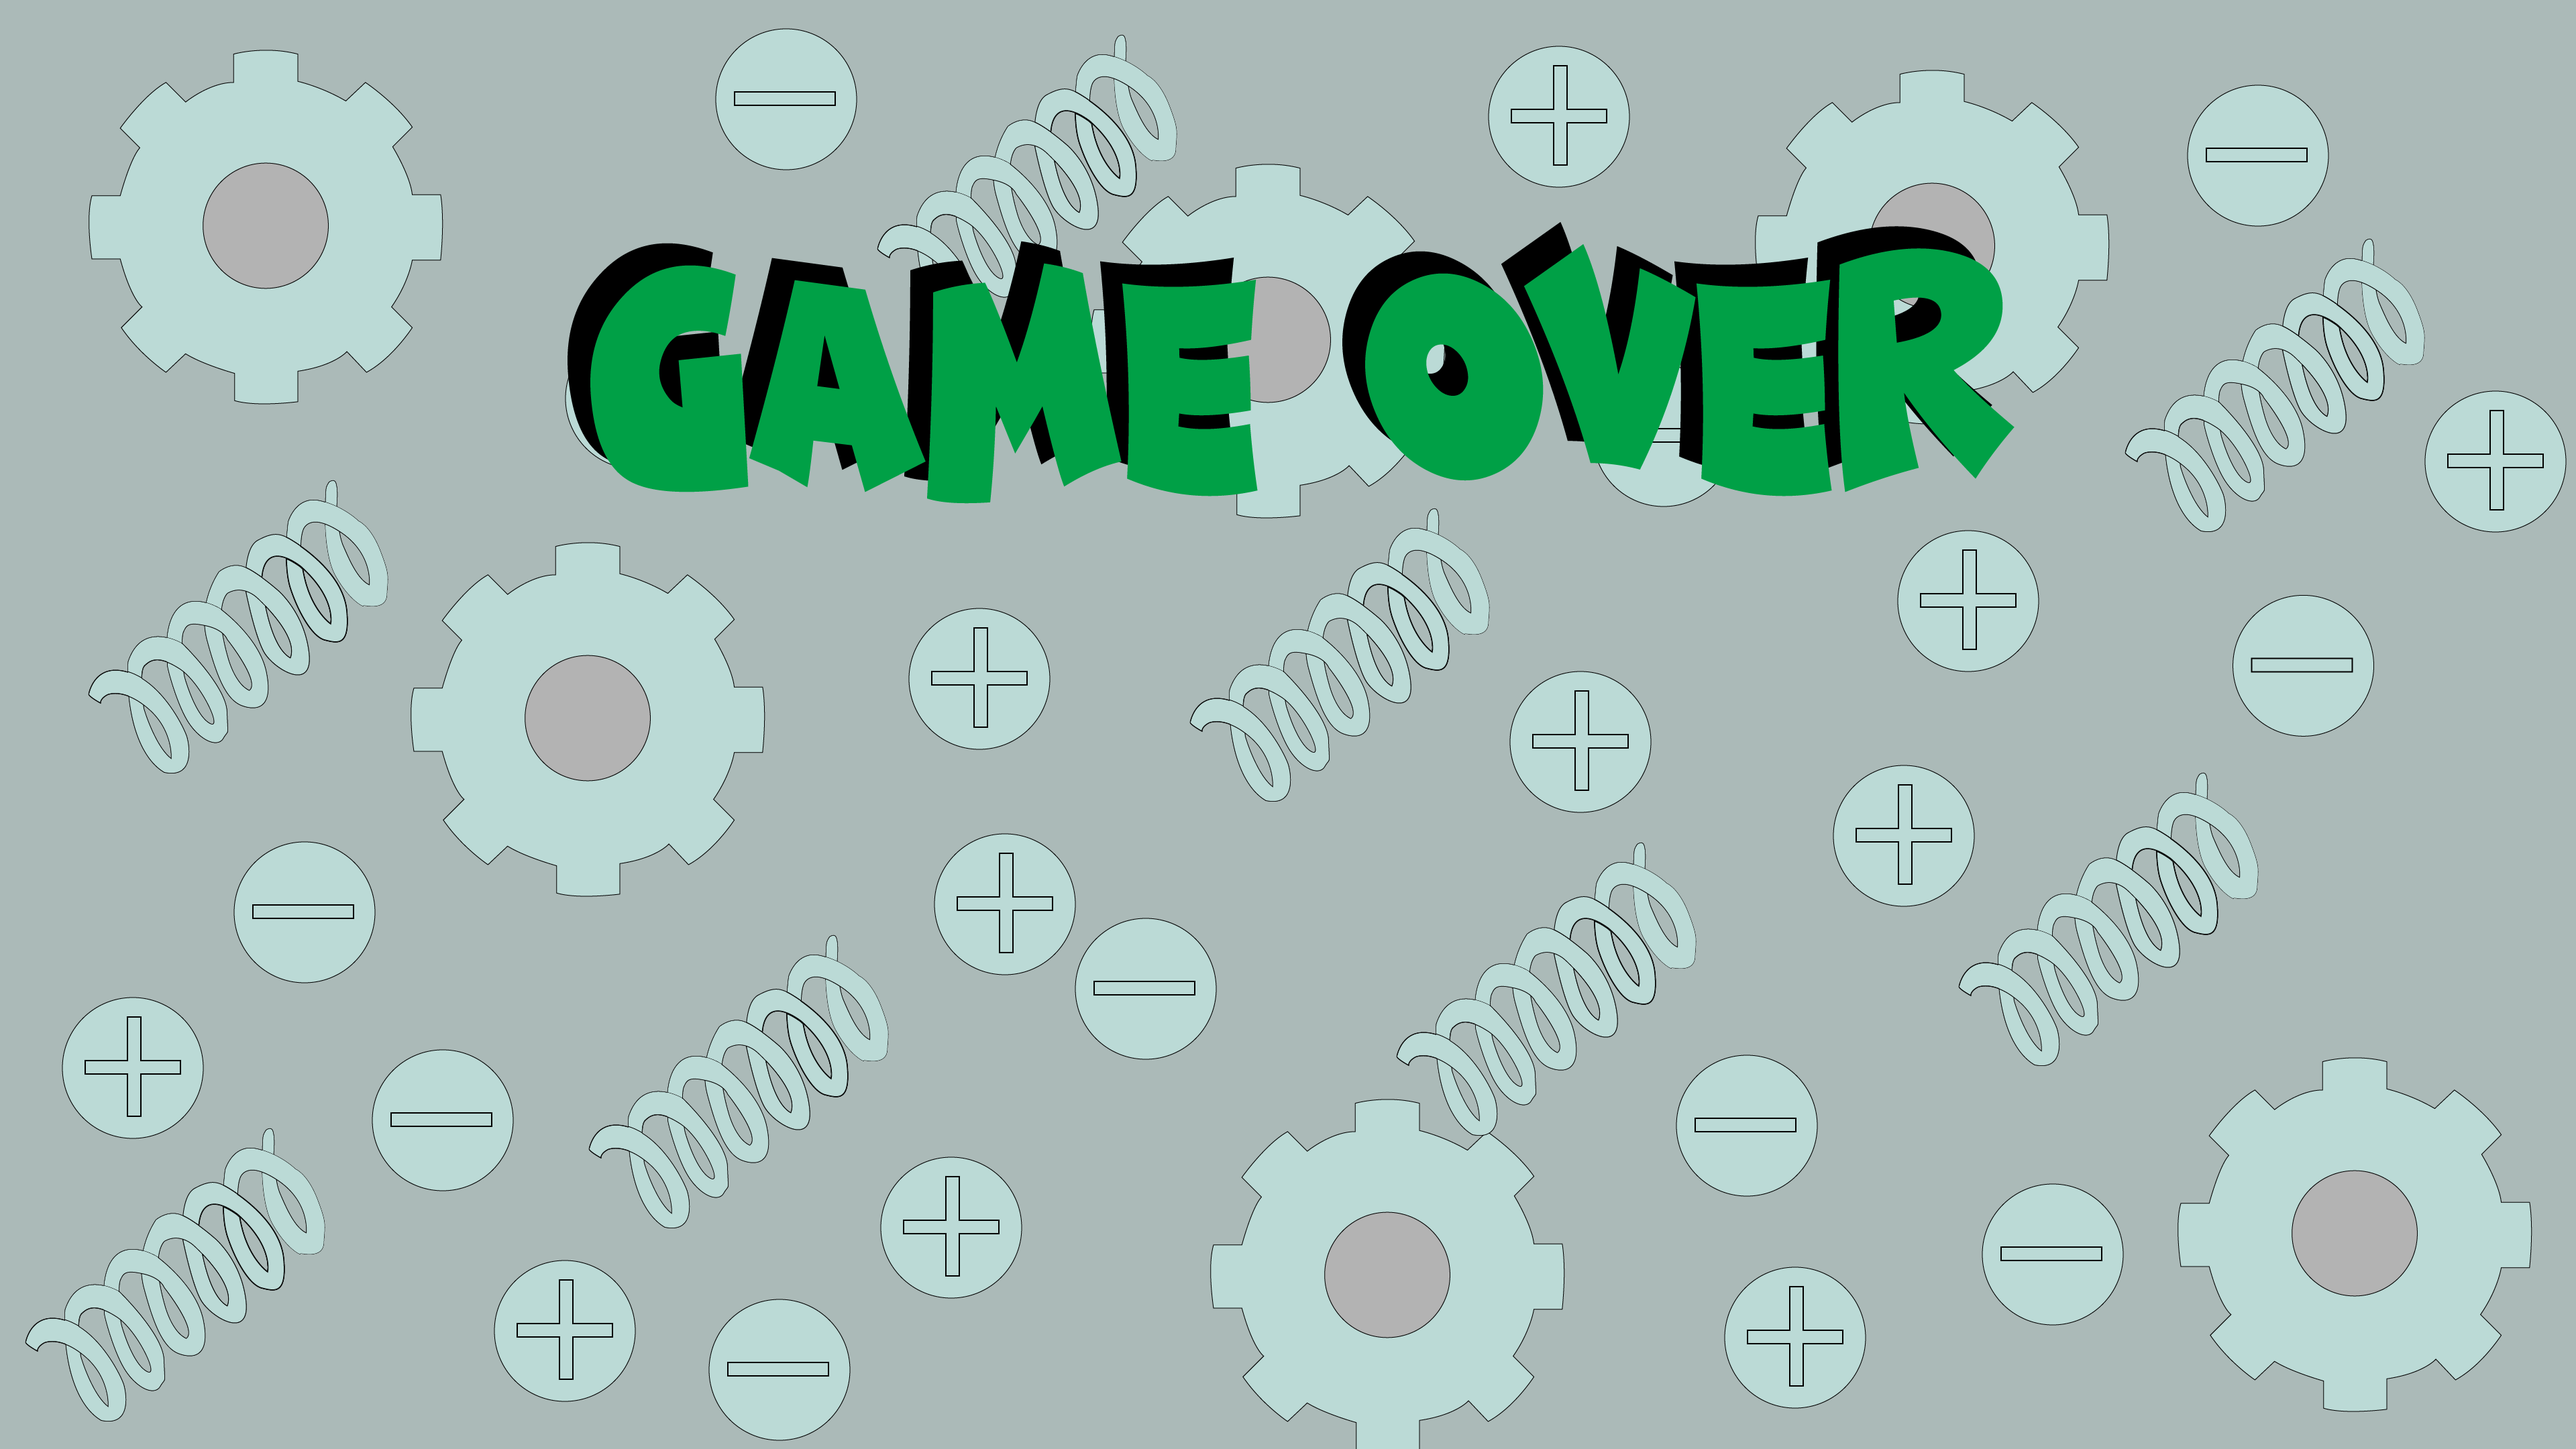
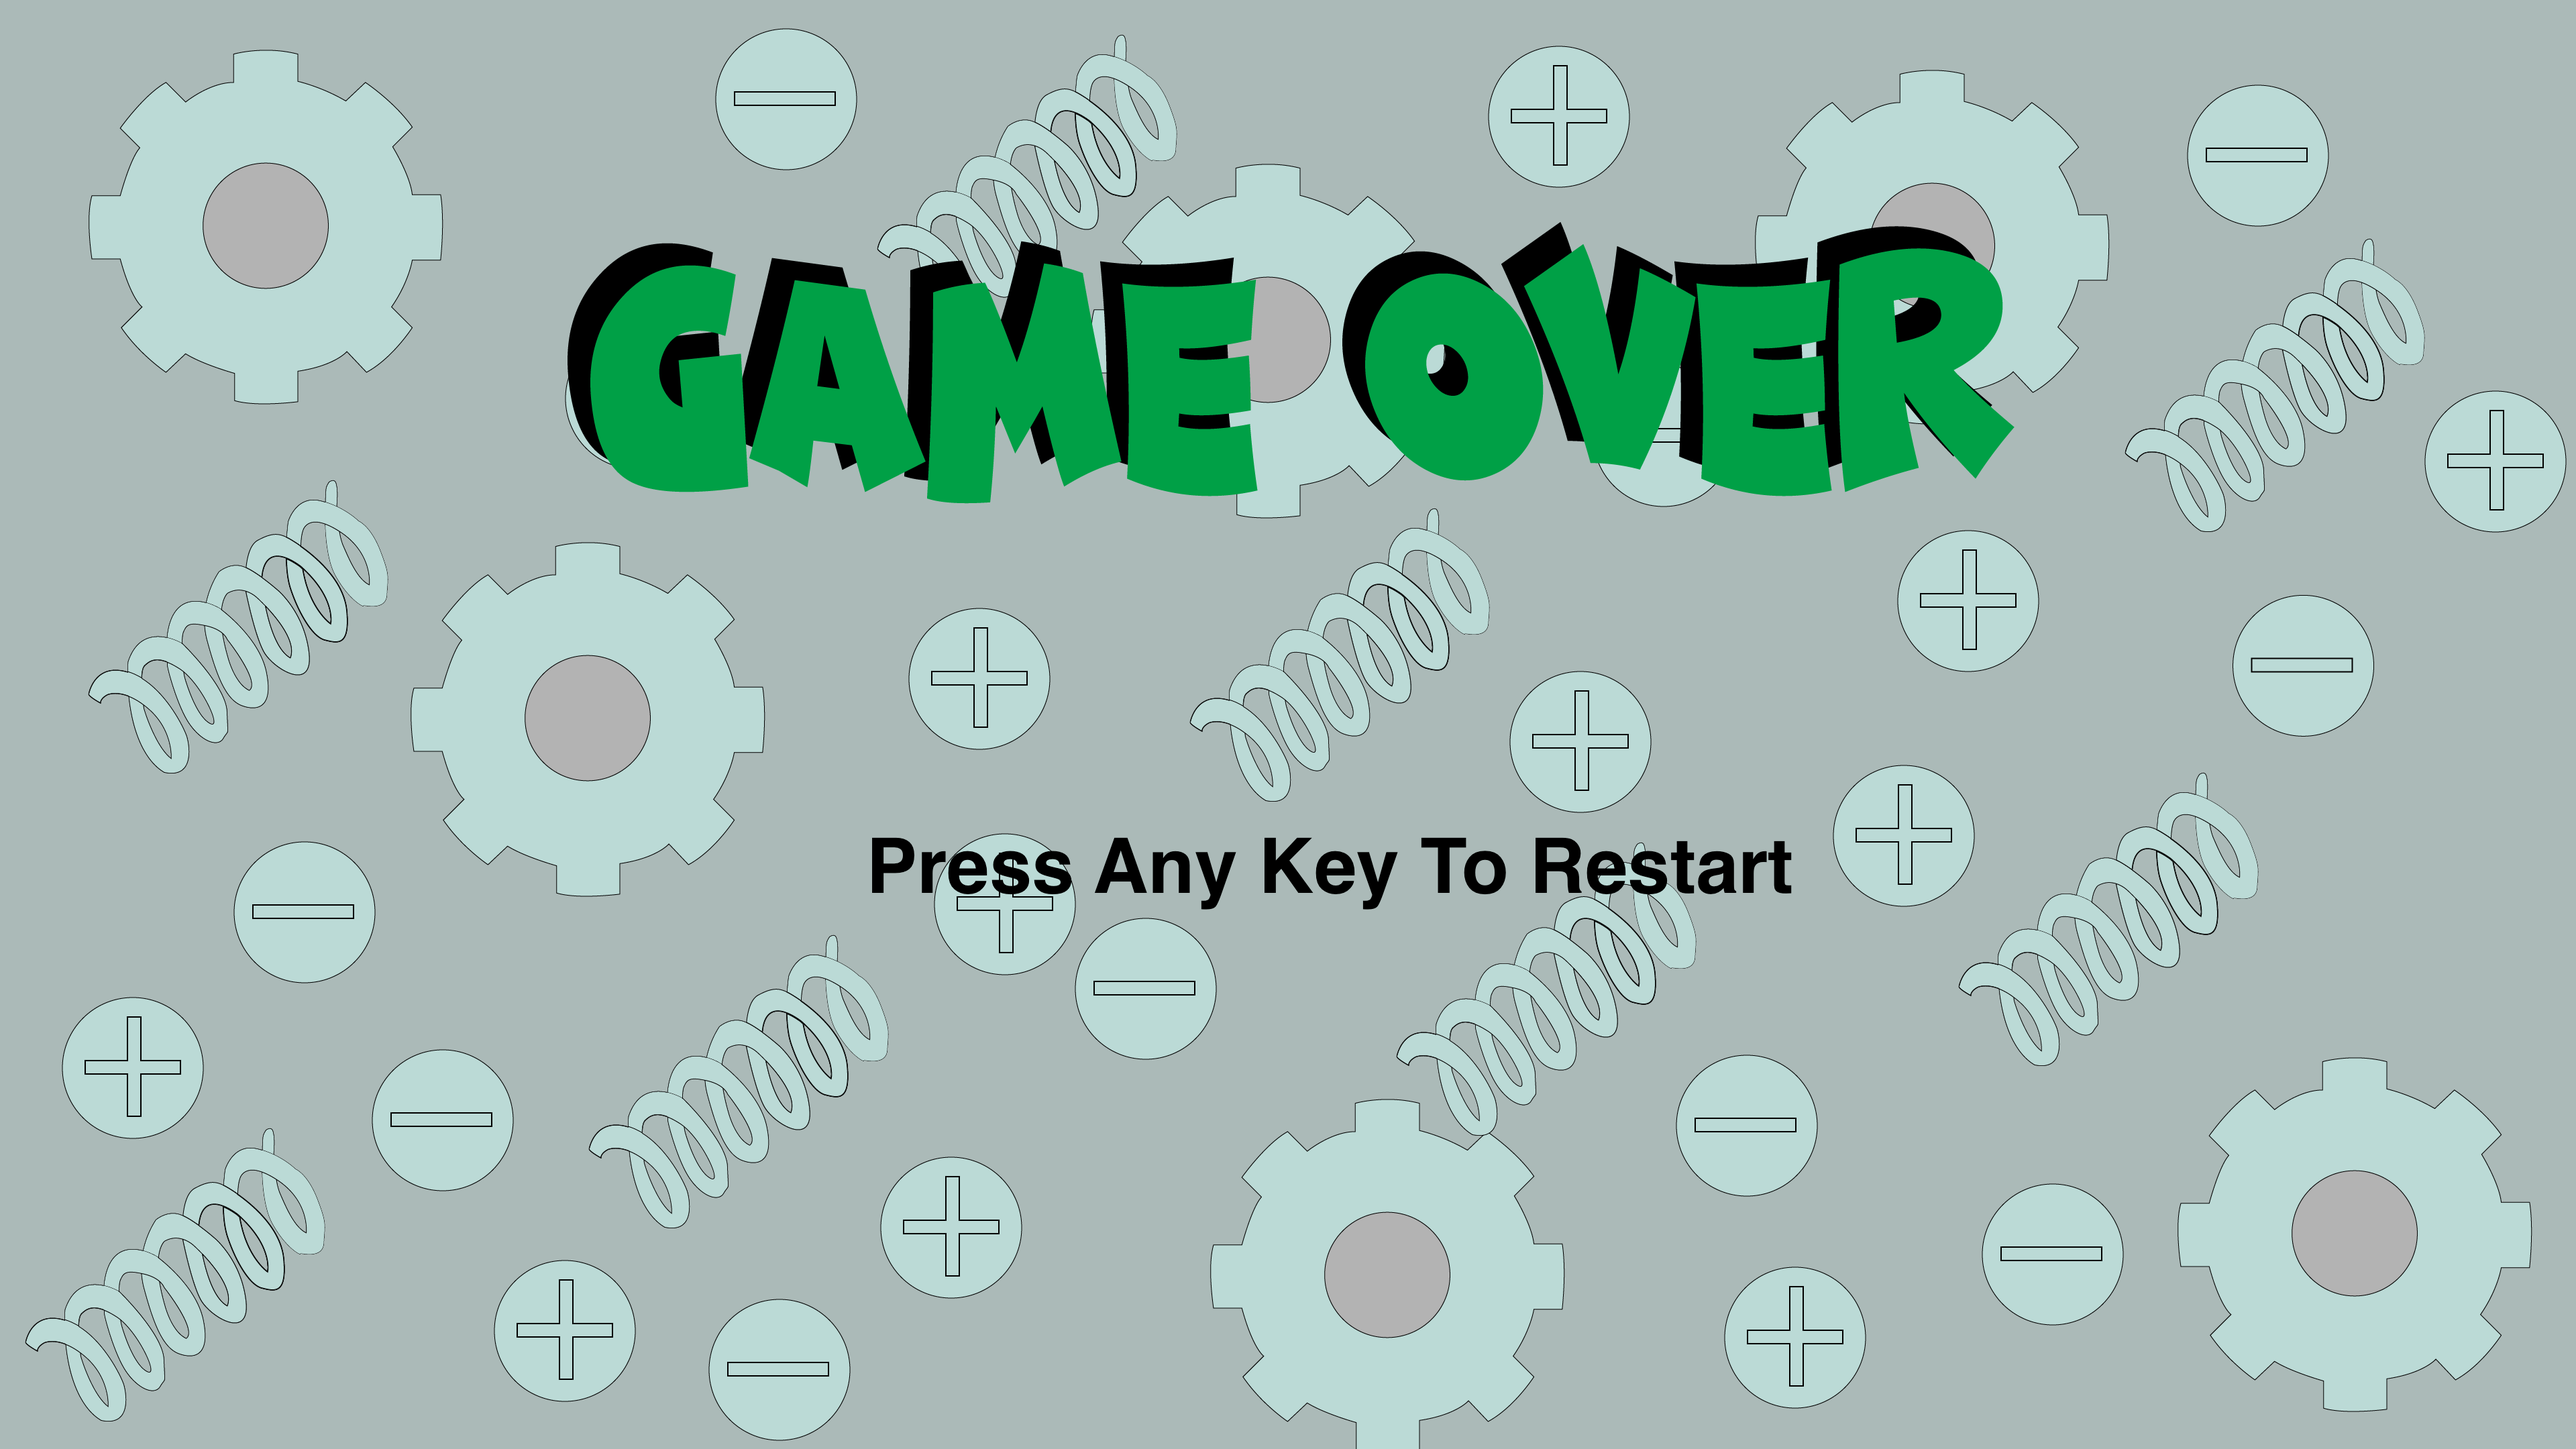
game over restarts

Changed region(s): [[0.3125, 0.5583, 0.7188, 0.6204]]

diff --git a/Assets/GameOverReset.cs b/Assets/GameOverReset.cs
@@ -1,0 +1,21 @@
+using System.Collections;
+using System.Collections.Generic;
+using UnityEngine;
+using UnityEngine.SceneManagement;
+
+
+public class GameOverReset : MonoBehaviour {
+
+	// Use this for initialization
+	void Start () {
+		
+	}
+	
+	// Update is called once per frame
+	void Update () {
+		if (Input.anyKeyDown)
+		{
+			SceneManager.LoadScene(0);
+		}
+	}
+}
